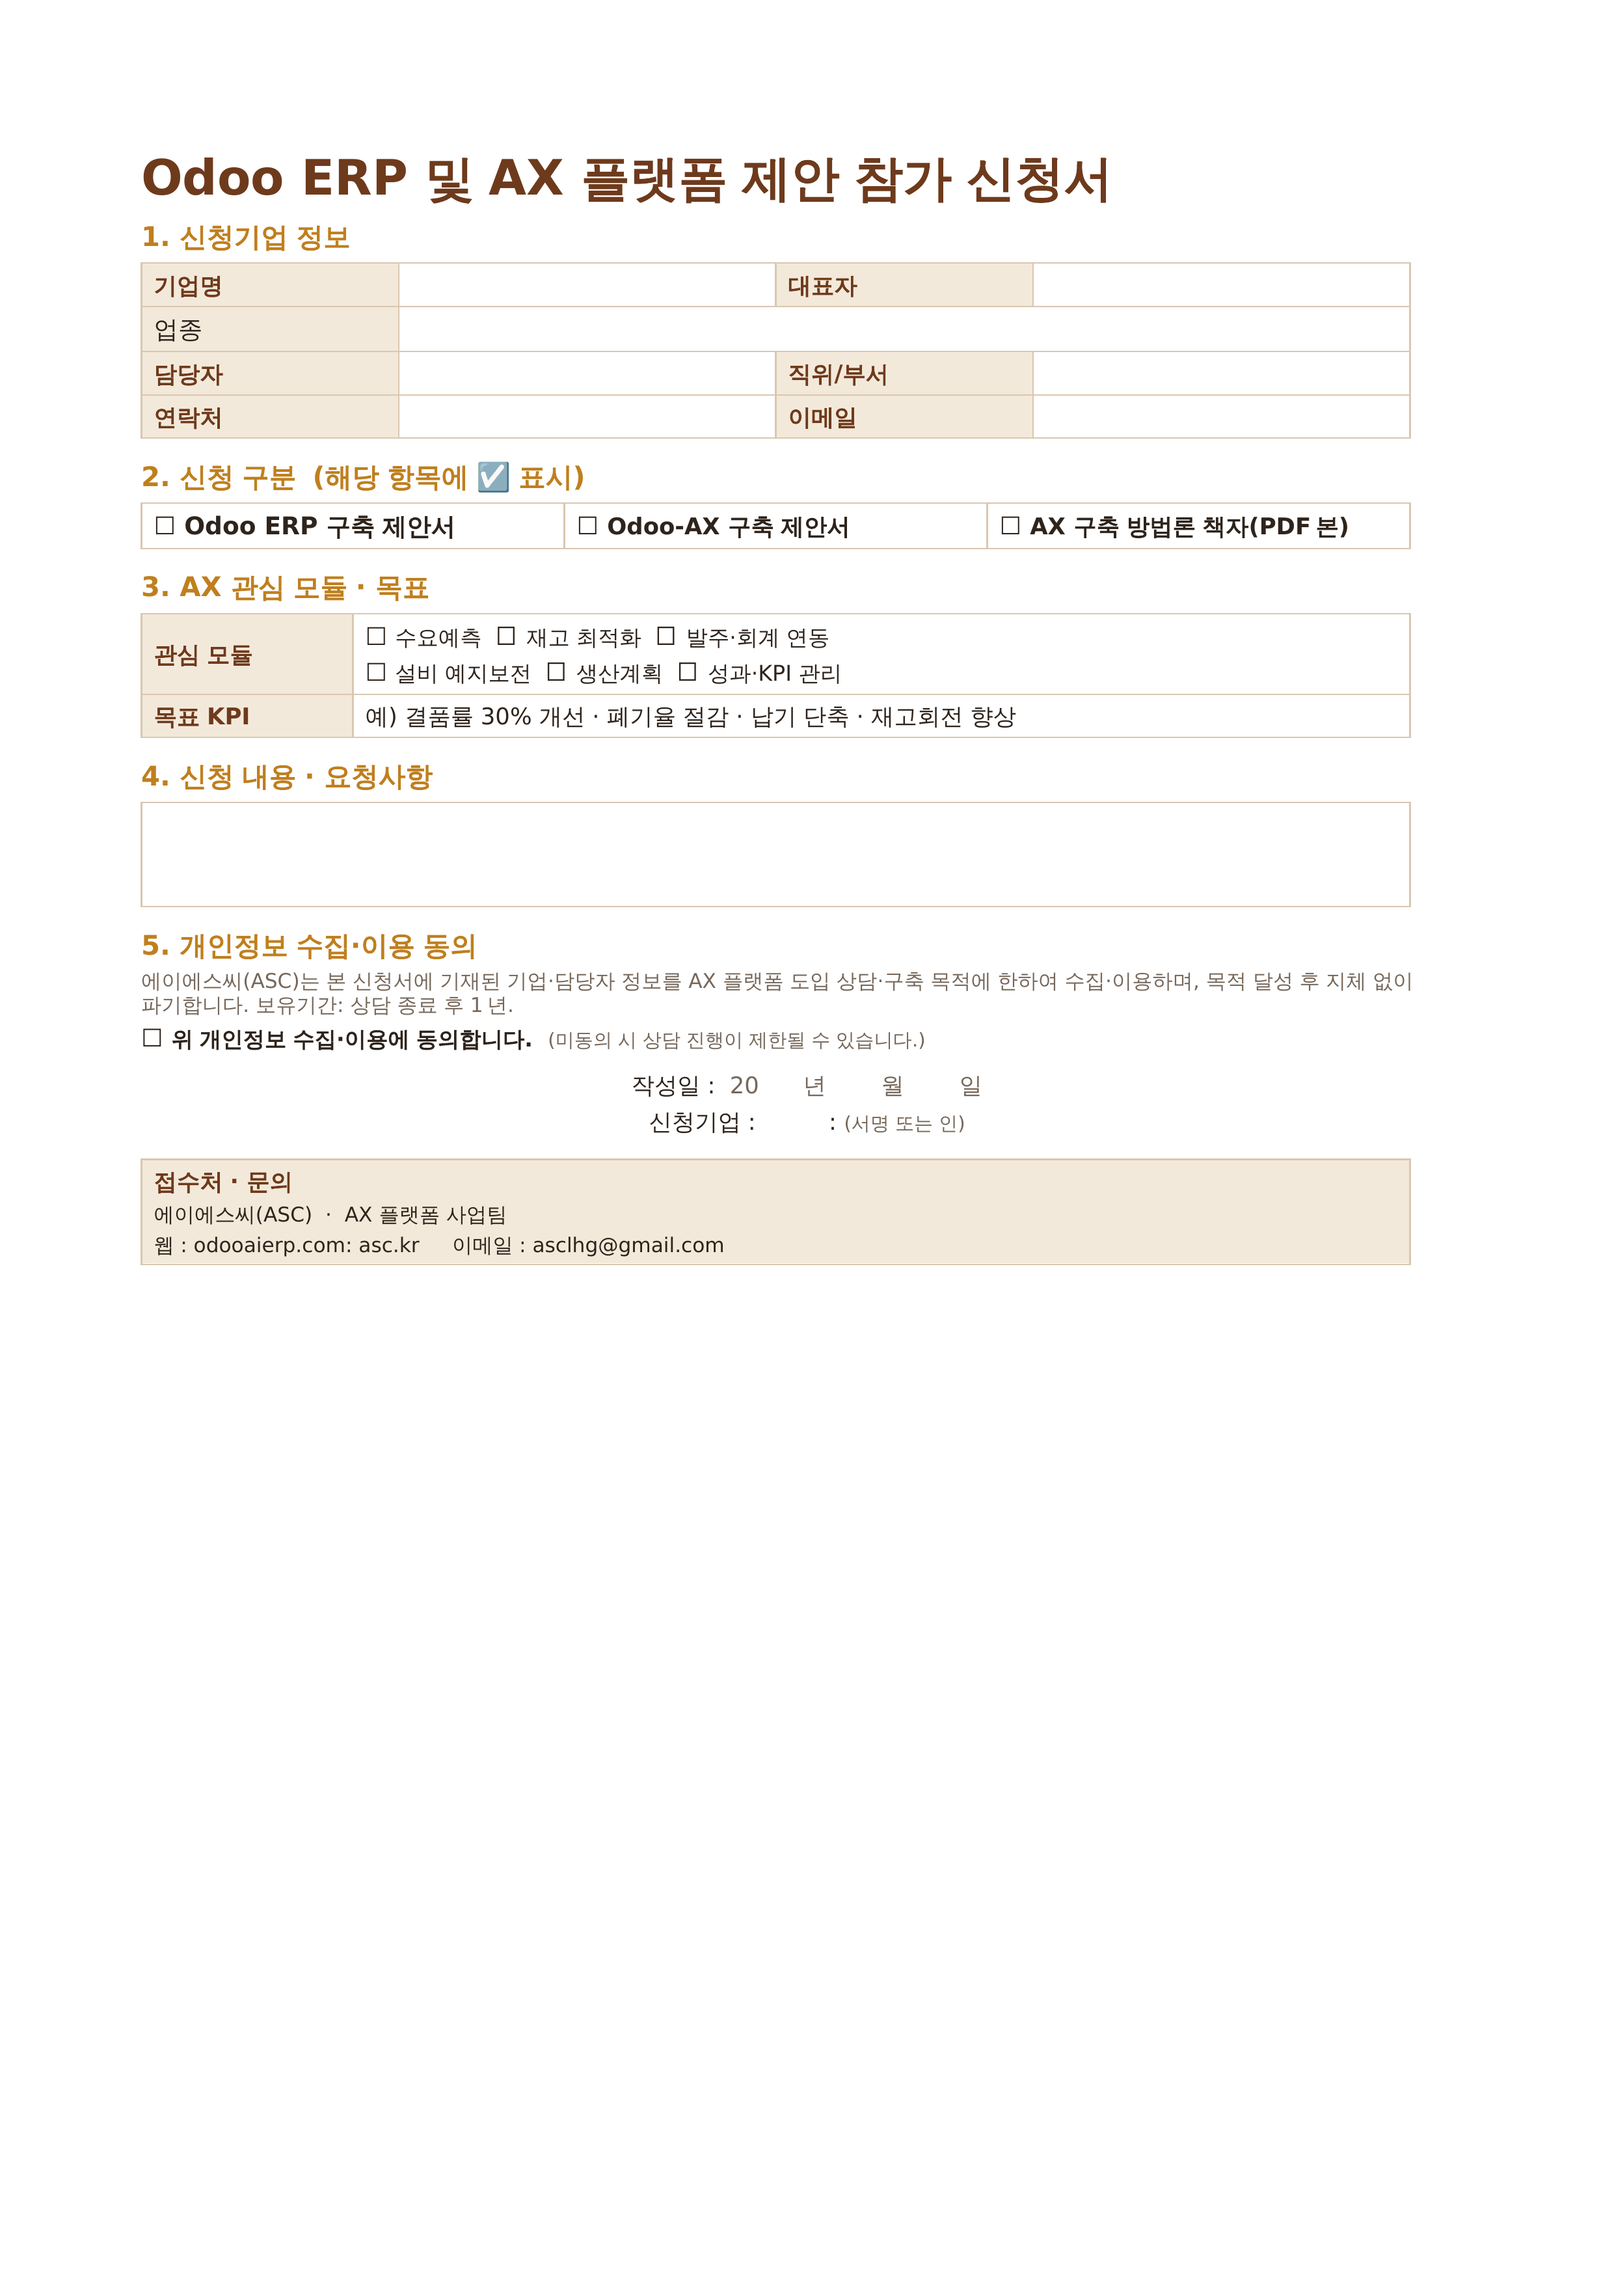
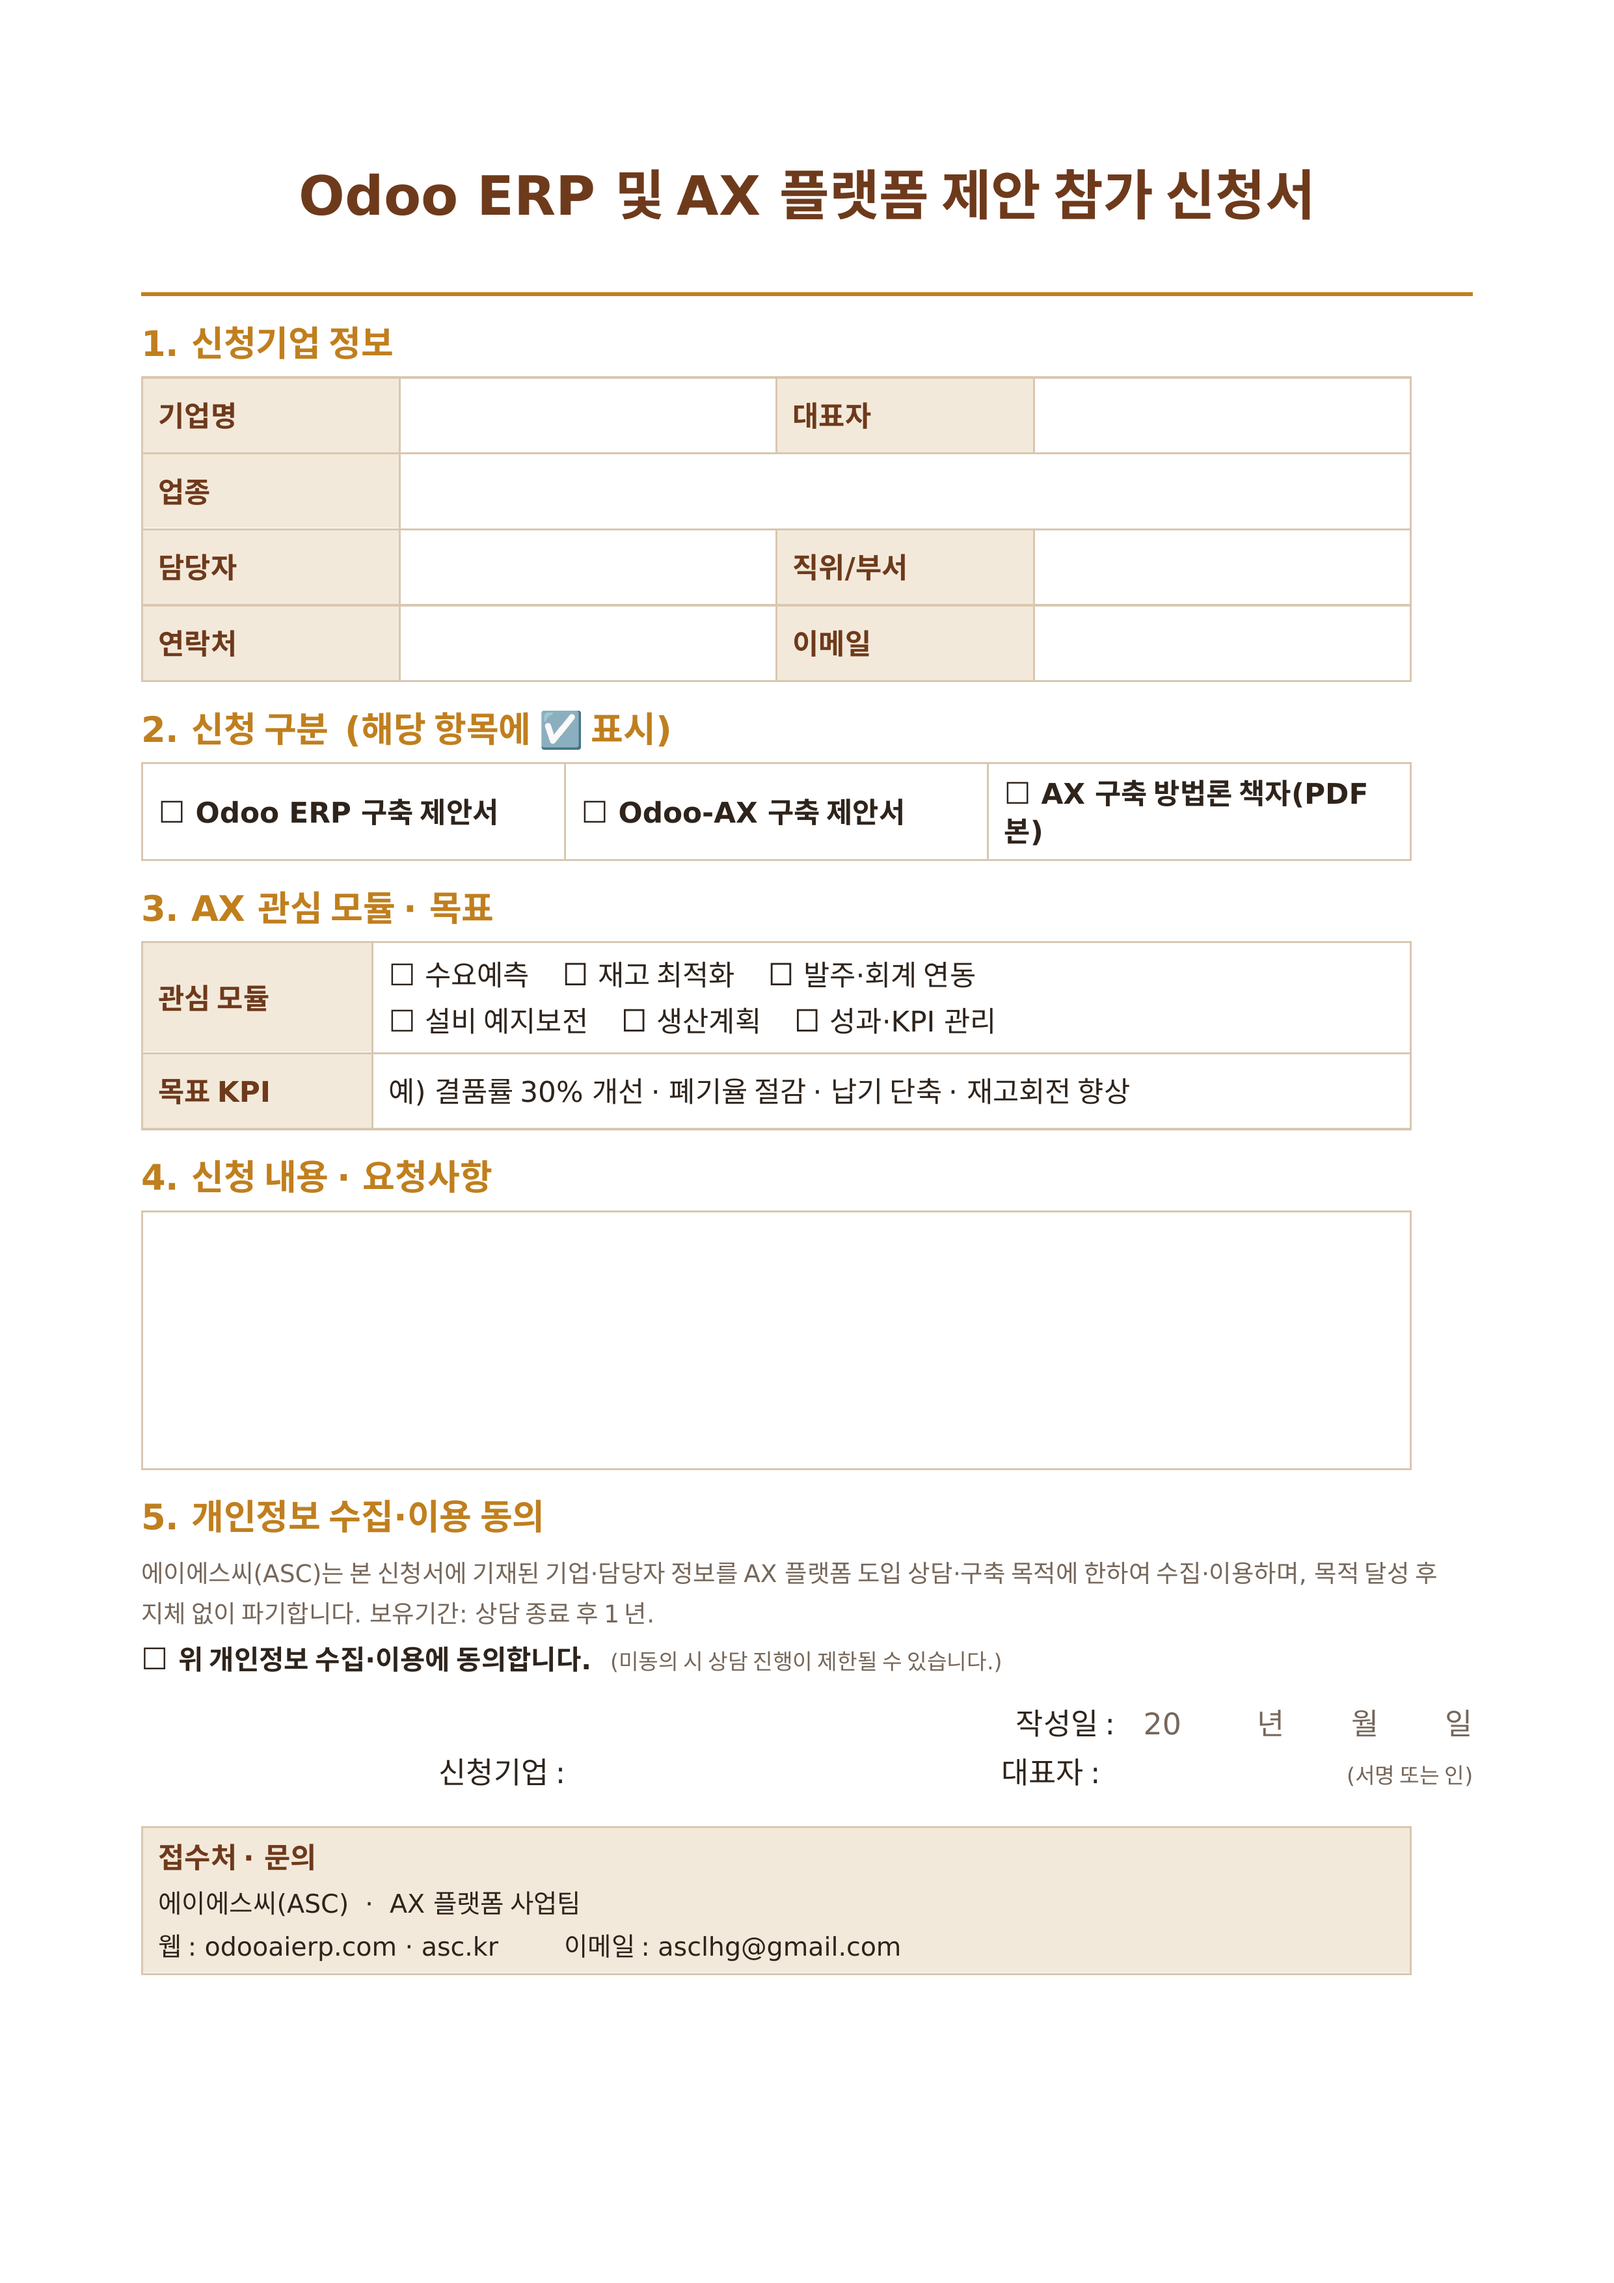
docs: 참가 신청서 A4 전면 편집본 (글자·행높이·여백 확대, 이미지 갱신)
Claude-Session: https://claude.ai/code/session_01FbQP7AjAZoRwNRDcTdAboQ

diff --git a/docs/presentations/make_form_a4.js b/docs/presentations/make_form_a4.js
@@ -1,0 +1,109 @@
+// Odoo ERP 및 AX 플랫폼 제안 참가 신청서 — A4 한 장 꽉 채움
+const fs = require("fs");
+const D = require("docx");
+const { Document, Packer, Paragraph, TextRun, Table, TableRow, TableCell,
+  WidthType, AlignmentType, BorderStyle, ShadingType, VerticalAlign, HeightRule } = D;
+
+const F = "맑은 고딕";
+const BROWN="6E3A1C", GOLD="C07F1E", INK="2E241C", SUB="76675A", LINE="D9C7B0", HEADBG="F3E9DA";
+const CHK="☐ ";
+
+function t(x,o={}){return new TextRun({text:x,font:F,size:o.size||22,bold:o.bold,color:o.color||INK,italics:o.i});}
+function p(runs,o={}){return new Paragraph({children:Array.isArray(runs)?runs:[runs],
+  spacing:{after:o.after??60,before:o.before||0,line:o.line||280},alignment:o.align});}
+function sec(x){return p(t(x,{bold:true,size:26,color:GOLD}),{after:90,before:220});}
+
+const TW=9360, RH=560;           // 표 폭, 기본 행 높이(키움)
+function row(cells,h){return new TableRow({height:{value:h||RH,rule:HeightRule.ATLEAST},children:cells});}
+function cell(children,o={}){
+  return new TableCell({width:{size:o.w,type:WidthType.DXA},columnSpan:o.span,
+    verticalAlign:VerticalAlign.CENTER,margins:{top:70,bottom:70,left:120,right:120},
+    shading:o.head?{type:ShadingType.CLEAR,fill:HEADBG,color:"auto"}:undefined,
+    children:Array.isArray(children)?children:[children]});
+}
+const LC=(x,w)=>cell(p(t(x,{bold:true,size:21,color:BROWN}),{after:0}),{w,head:true});
+const VC=(x,w,span)=>cell(p(t(x||" ",{size:21,color:x?INK:SUB}),{after:0}),{w,span});
+function tbl(cw,rows){
+  const b=(s)=>({style:BorderStyle.SINGLE,size:6,color:LINE});
+  return new Table({width:{size:TW,type:WidthType.DXA},columnWidths:cw,
+    borders:{top:b(),bottom:b(),left:b(),right:b(),insideHorizontal:b(),insideVertical:b()},rows});
+}
+
+const kids=[];
+
+// 제목
+kids.push(new Paragraph({children:[t("Odoo ERP 및 AX 플랫폼 제안 참가 신청서",{bold:true,size:40,color:BROWN})],
+  alignment:AlignmentType.CENTER,spacing:{before:120,after:80}}));
+kids.push(new Paragraph({border:{bottom:{style:BorderStyle.SINGLE,size:12,color:GOLD,space:6}},
+  children:[t("",{size:2})],spacing:{after:140}}));
+
+// 1. 신청기업 정보
+kids.push(sec("1. 신청기업 정보"));
+{
+  const cw=[1900,2780,1900,2780];
+  kids.push(tbl(cw,[
+    row([LC("기업명",cw[0]),VC("",cw[1]),LC("대표자",cw[2]),VC("",cw[3])]),
+    row([LC("업종",cw[0]),VC("",cw[1]+cw[2]+cw[3],3)]),
+    row([LC("담당자",cw[0]),VC("",cw[1]),LC("직위/부서",cw[2]),VC("",cw[3])]),
+    row([LC("연락처",cw[0]),VC("",cw[1]),LC("이메일",cw[2]),VC("",cw[3])]),
+  ]));
+}
+
+// 2. 신청 구분
+kids.push(sec("2. 신청 구분  (해당 항목에 ☑ 표시)"));
+{
+  const cw=[3120,3120,3120];
+  kids.push(tbl(cw,[ row([
+    cell(p([t(CHK,{bold:true,size:22}),t("Odoo ERP 구축 제안서",{size:21,bold:true})],{after:0}),{w:cw[0]}),
+    cell(p([t(CHK,{bold:true,size:22}),t("Odoo-AX 구축 제안서",{size:21,bold:true})],{after:0}),{w:cw[1]}),
+    cell(p([t(CHK,{bold:true,size:22}),t("AX 구축 방법론 책자(PDF본)",{size:21,bold:true})],{after:0}),{w:cw[2]}),
+  ],640) ]));
+}
+
+// 3. AX 관심 모듈 · 목표
+kids.push(sec("3. AX 관심 모듈 · 목표"));
+{
+  const cw=[1700,7660];
+  kids.push(tbl(cw,[
+    row([LC("관심 모듈",cw[0]),cell([
+      p([t(CHK,{size:22}),t("수요예측     ",{size:21}),t(CHK,{size:22}),t("재고 최적화     ",{size:21}),t(CHK,{size:22}),t("발주·회계 연동",{size:21})],{after:60}),
+      p([t(CHK,{size:22}),t("설비 예지보전     ",{size:21}),t(CHK,{size:22}),t("생산계획     ",{size:21}),t(CHK,{size:22}),t("성과·KPI 관리",{size:21})],{after:0}),
+    ],{w:cw[1]})],820),
+    row([LC("목표 KPI",cw[0]),VC("예) 결품률 30% 개선 · 폐기율 절감 · 납기 단축 · 재고회전 향상",cw[1])]),
+  ]));
+}
+
+// 4. 신청 내용 · 요청사항  (큰 박스)
+kids.push(sec("4. 신청 내용 · 요청사항"));
+kids.push(tbl([TW],[ row([cell([
+  p(t(" ",{size:22}),{after:180}),p(t(" ",{size:22}),{after:180}),
+  p(t(" ",{size:22}),{after:180}),p(t(" ",{size:22}),{after:0}),
+],{w:TW})],1900) ]));
+
+// 5. 개인정보 수집·이용 동의
+kids.push(sec("5. 개인정보 수집·이용 동의"));
+kids.push(p(t("에이에스씨(ASC)는 본 신청서에 기재된 기업·담당자 정보를 AX 플랫폼 도입 상담·구축 목적에 한하여 수집·이용하며, 목적 달성 후 지체 없이 파기합니다. 보유기간: 상담 종료 후 1년.",{size:18,color:SUB}),{after:60,line:300}));
+kids.push(p([t(CHK,{bold:true,size:22}),t("위 개인정보 수집·이용에 동의합니다.  ",{size:20,bold:true}),
+  t("(미동의 시 상담 진행이 제한될 수 있습니다.)",{size:16,color:SUB})],{after:200}));
+
+// 서명란
+kids.push(p([t("작성일 :   ",{size:22}),t("20        년          월          일",{size:22,color:SUB})],
+  {align:AlignmentType.RIGHT,after:80,before:80}));
+kids.push(p([t("신청기업 :  ",{size:22}),t("                                         ",{size:22}),
+  t("   대표자 :  ",{size:22}),t("                        ",{size:22}),t("(서명 또는 인)",{size:16,color:SUB})],
+  {align:AlignmentType.RIGHT,after:260}));
+
+// 접수처
+kids.push(tbl([TW],[ row([cell([
+  p(t("접수처 · 문의",{bold:true,size:21,color:BROWN}),{after:50}),
+  p(t("에이에스씨(ASC)  ·  AX 플랫폼 사업팀",{size:19}),{after:36}),
+  p([t("웹 : odooaierp.com · asc.kr        ",{size:19}),t("이메일 : asclhg@gmail.com",{size:19})],{after:0}),
+],{w:TW,head:true})],1000) ]));
+
+const doc=new Document({styles:{default:{document:{run:{font:F,size:22,color:INK}}}},
+  sections:[{properties:{page:{size:{width:11906,height:16838},margin:{top:1000,bottom:900,left:1040,right:1040}}},children:kids}]});
+
+Packer.toBuffer(doc).then(b=>{
+  const out="/home/user/thirdbrain-web/docs/presentations/AX_플랫폼_구축_참가신청서.docx";
+  fs.writeFileSync(out,b); console.log("FORM",out,b.length);
+});
